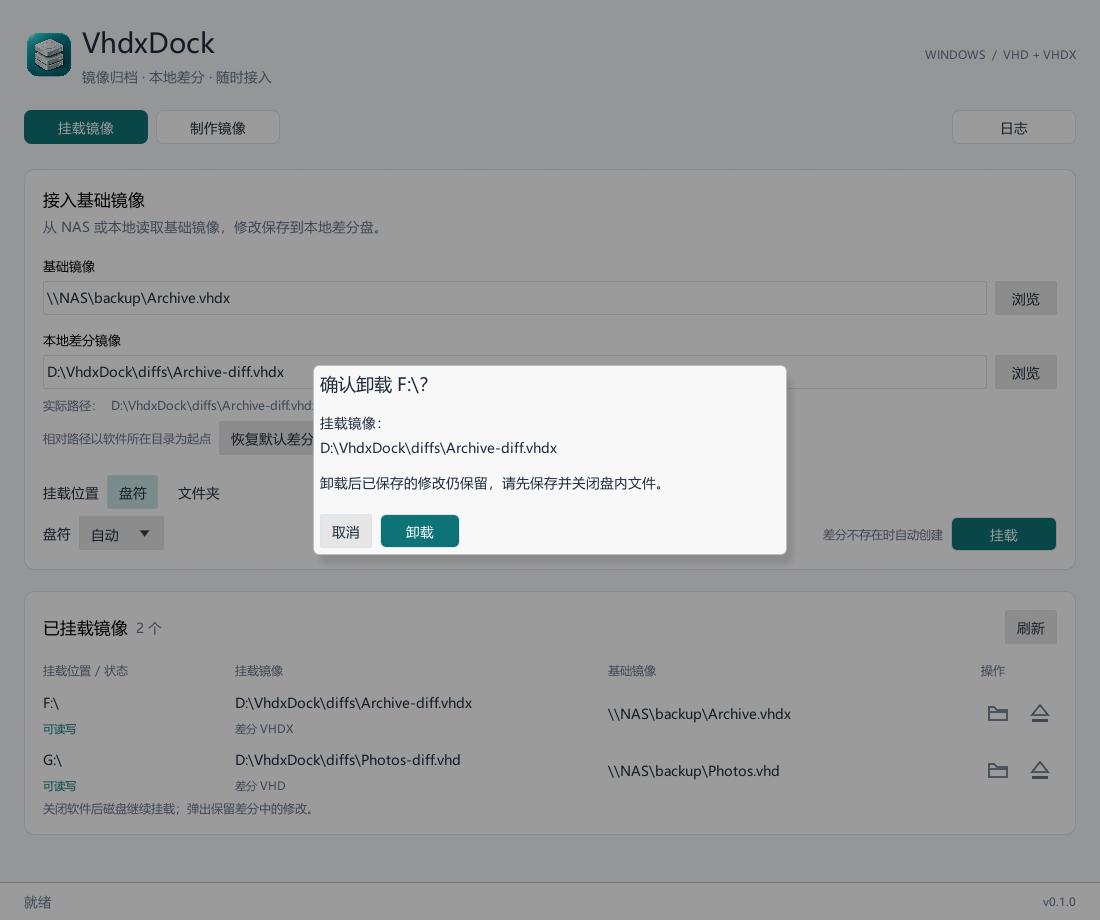
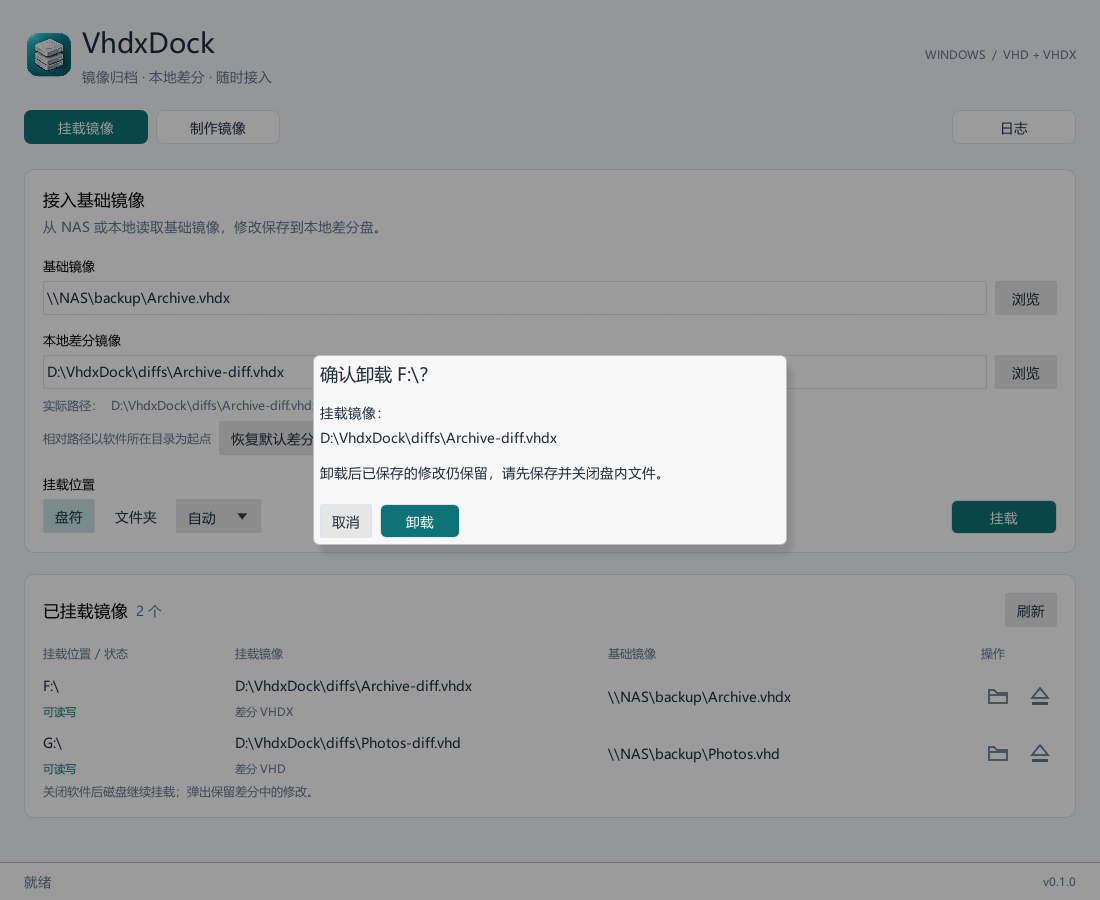
Keep mount mode and target controls on one compact row

diff --git a/src/app.rs b/src/app.rs
@@ -629,34 +629,19 @@ impl DockApp {
                     }
                 });
                 ui.add_space(13.0);
+                ui.label(RichText::new("挂载位置").strong().size(13.0));
                 control_row(ui, |ui| {
-                    ui.label("挂载位置");
                     let previous = self.settings.mount_mode;
                     ui.selectable_value(
                         &mut self.settings.mount_mode,
                         MountMode::DriveLetter,
                         "盘符",
-                    );
-                    ui.selectable_value(&mut self.settings.mount_mode, MountMode::Folder, "文件夹");
+                    )
+                    .on_hover_text("自动分配空闲盘符，或选择指定盘符。");
+                    ui.selectable_value(&mut self.settings.mount_mode, MountMode::Folder, "文件夹")
+                        .on_hover_text("选择本地 NTFS 上已有的空文件夹；不会自动创建目录。\n仅支持单个数据分区，挂载后不保留盘符。");
                     self.config_dirty |= previous != self.settings.mount_mode;
-                });
-                if self.settings.mount_mode == MountMode::Folder {
-                    self.config_dirty |= path_input(
-                        ui,
-                        "挂载文件夹",
-                        &mut self.settings.mount_folder,
-                        Browse::MountFolder,
-                    );
-                    ui.label(
-                        RichText::new("选择本地 NTFS 上已有的空文件夹；不会自动创建目录。")
-                            .size(12.0)
-                            .color(MUTED),
-                    );
-                    ui.add_space(6.0);
-                }
-                control_row(ui, |ui| {
                     if self.settings.mount_mode == MountMode::DriveLetter {
-                        ui.label("盘符");
                         let old_letter = self.settings.drive_letter;
                         let selected = self
                             .settings
@@ -692,20 +677,46 @@ impl DockApp {
                                 }
                             });
                         self.config_dirty |= old_letter != self.settings.drive_letter;
+                    } else {
+                        let input_width =
+                            (ui.available_width() - 62.0 - 106.0 - 2.0 * ui.spacing().item_spacing.x)
+                                .max(40.0);
+                        self.config_dirty |= ui
+                            .add_sized(
+                                [input_width, CONTROL_HEIGHT],
+                                egui::TextEdit::singleline(&mut self.settings.mount_folder)
+                                    .vertical_align(egui::Align::Center)
+                                    .min_size(Vec2::new(0.0, CONTROL_HEIGHT))
+                                    .hint_text(r"D:\Mounts\Archive"),
+                            )
+                            .changed();
+                        if ui.add_sized([62.0, CONTROL_HEIGHT], button("浏览")).clicked() {
+                            let mut dialog = rfd::FileDialog::new();
+                            if let Ok(path) = Self::resolved(&self.settings.mount_folder) {
+                                if path.is_dir() {
+                                    dialog = dialog.set_directory(path);
+                                } else if let Some(parent) = path.parent() {
+                                    dialog = dialog.set_directory(parent);
+                                }
+                            }
+                            if let Some(path) = dialog.pick_folder() {
+                                self.settings.mount_folder = path.display().to_string();
+                                self.config_dirty = true;
+                            }
+                        }
                     }
                     ui.with_layout(egui::Layout::right_to_left(egui::Align::Center), |ui| {
                         let enabled = !self.settings.base_path.trim().is_empty()
                             && !self.settings.diff_path.trim().is_empty()
                             && (self.settings.mount_mode == MountMode::DriveLetter
                                 || !self.settings.mount_folder.trim().is_empty());
-                        if ui.add_enabled(enabled, primary("挂载", 106.0)).clicked() {
+                        if ui
+                            .add_enabled(enabled, primary("挂载", 106.0))
+                            .on_hover_text("差分镜像不存在时自动创建；已存在时继续使用。")
+                            .clicked()
+                        {
                             self.mount();
                         }
-                        ui.label(
-                            RichText::new("差分不存在时自动创建")
-                                .size(12.0)
-                                .color(MUTED),
-                        );
                     });
                 });
             });
@@ -1513,7 +1524,6 @@ enum Browse {
     Image,
     SaveDiff,
     Folder,
-    MountFolder,
     SaveVhdx,
 }
 
@@ -1531,7 +1541,6 @@ fn path_input(ui: &mut egui::Ui, label: &str, value: &mut String, kind: Browse) 
                         Browse::Image => r"本地路径或 \\NAS\共享\镜像.vhdx",
                         Browse::SaveDiff => r".\diffs\镜像-diff.vhdx",
                         Browse::Folder => r"E:\需要归档的文件夹",
-                        Browse::MountFolder => r"D:\Mounts\Archive",
                         Browse::SaveVhdx => r"D:\Backup\镜像-base.vhdx",
                     }),
             )
@@ -1558,7 +1567,7 @@ fn path_input(ui: &mut egui::Ui, label: &str, value: &mut String, kind: Browse) 
             let chosen = match kind {
                 Browse::Image => dialog.add_filter("虚拟硬盘", &["vhdx", "vhd"]).pick_file(),
                 Browse::SaveDiff => dialog.add_filter("虚拟硬盘", &["vhdx", "vhd"]).save_file(),
-                Browse::Folder | Browse::MountFolder => dialog.pick_folder(),
+                Browse::Folder => dialog.pick_folder(),
                 Browse::SaveVhdx => dialog.add_filter("VHDX 镜像", &["vhdx"]).save_file(),
             };
             if let Some(path) = chosen {
@@ -1943,13 +1952,63 @@ mod tests {
                 })
             };
             let initial = render(&mut app, vec![]);
+            let assert_row = |output: &egui::FullOutput, mode| {
+                let text = rendered_text(&output.shapes);
+                assert_eq!(text.lines().filter(|line| *line == "挂载位置").count(), 1);
+                assert!(!text.contains("挂载文件夹"), "No duplicate folder heading");
+                assert!(
+                    !text.contains("已有的空文件夹"),
+                    "Folder guidance belongs in a tooltip"
+                );
+                assert!(
+                    !text.contains("差分不存在时自动创建"),
+                    "Mount guidance belongs in a tooltip"
+                );
+                let drive = text_rect(&output.shapes, "盘符");
+                let folder = text_rect(&output.shapes, "文件夹");
+                let mount = text_rect(&output.shapes, "挂载");
+                let target = text_rect(
+                    &output.shapes,
+                    if mode == MountMode::Folder {
+                        "mounts/archive"
+                    } else {
+                        "Q:"
+                    },
+                );
+                assert!(text_rect(&output.shapes, "挂载位置").bottom() < drive.top());
+                for control in [folder, target, mount] {
+                    assert!(
+                        (control.center().y - drive.center().y).abs() < 1.5,
+                        "Mount options, target and action must share one centered row"
+                    );
+                }
+                assert!(
+                    mount.right() + 20.0 < width,
+                    "The full mount button must fit"
+                );
+                if mode == MountMode::Folder {
+                    let browse = output
+                        .shapes
+                        .iter()
+                        .filter_map(|clipped| match &clipped.shape {
+                            egui::Shape::Text(shape) if shape.galley.job.text == "浏览" => Some(
+                                egui::Rect::from_min_size(shape.pos, shape.galley.rect.size()),
+                            ),
+                            _ => None,
+                        })
+                        .next_back()
+                        .expect("Folder browse button");
+                    assert!((browse.center().y - drive.center().y).abs() < 1.5);
+                    assert!(target.left() > folder.right() && browse.right() < mount.left());
+                }
+            };
+            assert_row(&initial, MountMode::DriveLetter);
             let folder = text_rect(&initial.shapes, "文件夹").center();
             let _ = render(&mut app, pointer_events(folder, true));
             let selected = render(&mut app, pointer_events(folder, false));
             assert_eq!(app.settings.mount_mode, MountMode::Folder);
             assert!(app.config_dirty);
-            assert!(rendered_text(&selected.shapes).contains("已有的空文件夹"));
-            assert!(text_rect(&selected.shapes, "挂载").right() < width);
+            assert_row(&selected, MountMode::Folder);
             let folder_request = app.mount_request().unwrap();
             assert_eq!(folder_request.drive_letter, None);
             assert_eq!(

diff --git a/examples/ui_preview.rs b/examples/ui_preview.rs
@@ -90,10 +90,8 @@ fn main() -> eframe::Result {
         }
     }
     // Documentation views show both mounted example disks without scrolling.
-    let height = if scenario == "folder" {
-        1020.0
-    } else if matches!(scenario.as_str(), "mount" | "eject") {
-        920.0
+    let height = if matches!(scenario.as_str(), "mount" | "folder" | "eject") {
+        900.0
     } else {
         760.0
     };
@@ -101,7 +99,7 @@ fn main() -> eframe::Result {
         viewport: egui::ViewportBuilder::default()
             .with_icon(app::application_icon())
             .with_inner_size([1100.0, height])
-            .with_min_inner_size([920.0, 600.0]),
+            .with_min_inner_size([860.0, 600.0]),
         renderer: eframe::Renderer::Glow,
         ..Default::default()
     };
